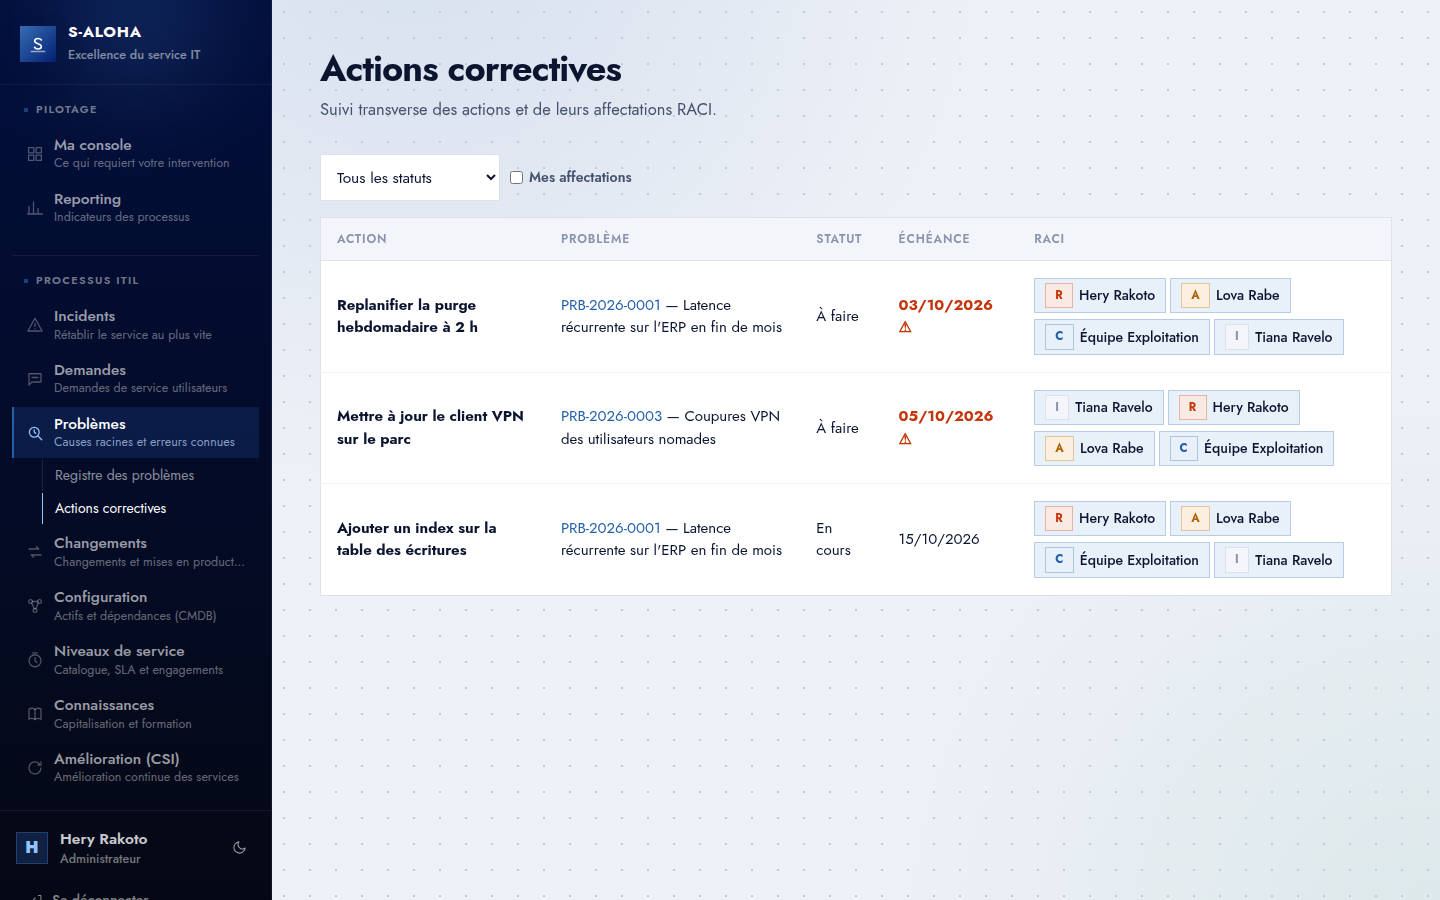
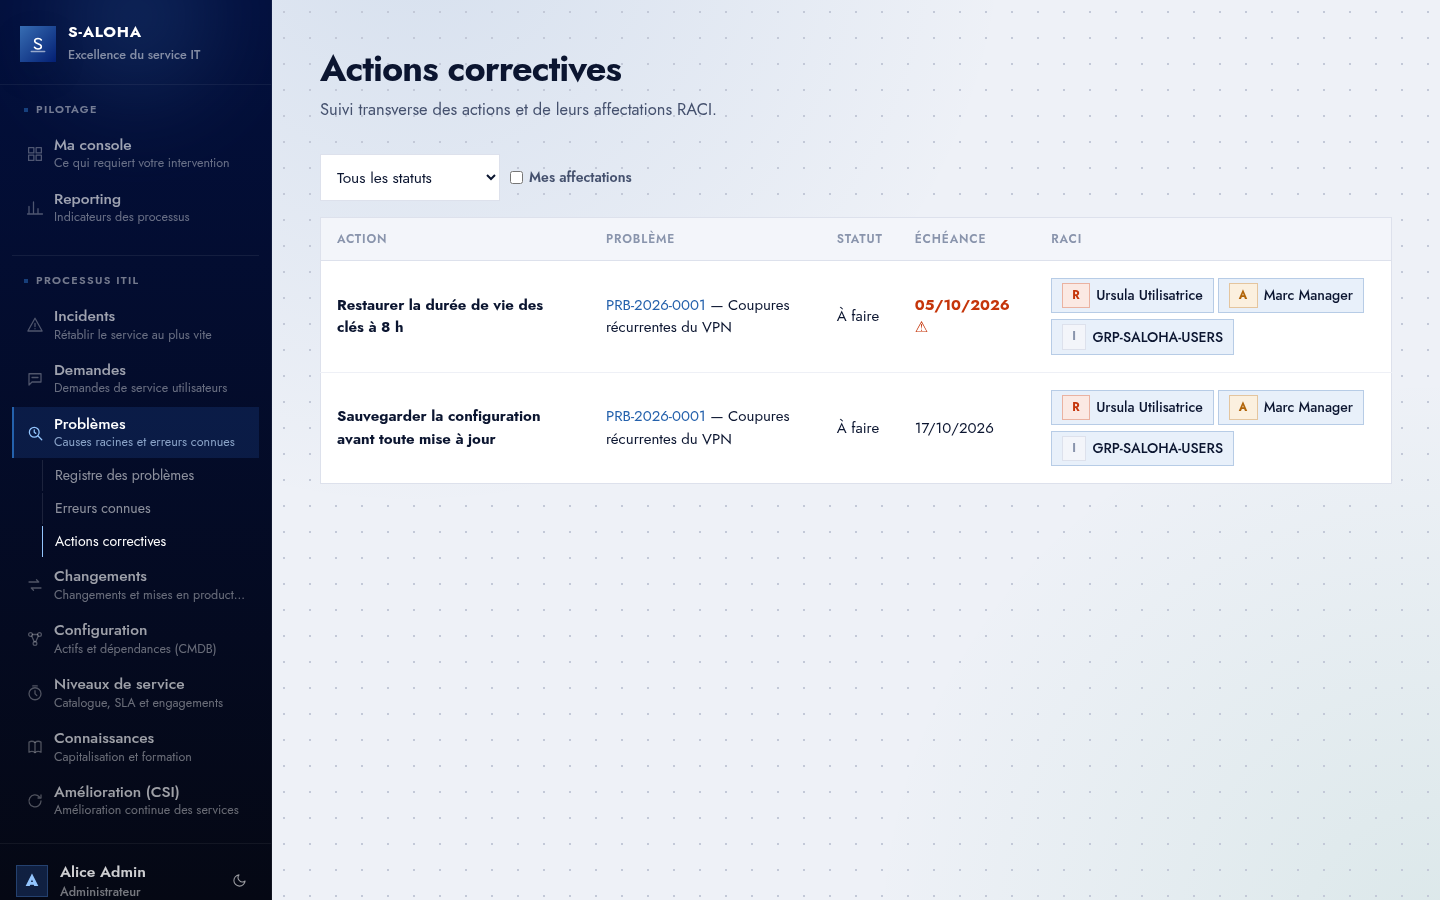
Mode démonstration enrichi et captures d'écran régénérées (#44)
* Mode démonstration enrichi et captures d'écran régénérées

Données d'exemple étoffées (services, SLA, CI, incidents dans tous les statuts,
problèmes en analyse et clos, changements réussi et à autoriser, articles,
améliorations) ; les 16 captures régénérées depuis le mode démonstration, avec
la navigation et les onglets actuels (#26).

* Journal et plan : captures régénérées, Q6 soldé

---------

diff --git a/demo/donnees/charger.py b/demo/donnees/charger.py
@@ -201,7 +201,121 @@ def main():
         'benefit': 'Respect du SLA Accès distant', 'baseline': '11 h en moyenne', 'target': '6 h',
         'outcome': None, 'dueDate': jour(45)}, 'Validée')
 
+    complements(m, u, messagerie, erp, mail, bdd, parefeu)
     print('✔ Données de démonstration chargées.')
+
+
+def complements(m, u, messagerie, erp, mail, bdd, parefeu):
+    """Second jeu : de quoi remplir registres, reporting et captures d'écran."""
+    # --- Services et SLA ---------------------------------------------------------
+    impression = creer(m, '/api/services', {**MARC, 'title': 'Impression',
+        'description': 'Impression et numérisation sur les sites.',
+        'criticality': 'Faible', 'serviceHours': 'Jours ouvrés, 8 h – 17 h'}, 'En service')
+    creer(m, '/api/services', {**MARC, 'title': 'Téléphonie IP',
+        'description': 'Postes téléphoniques et standard.', 'criticality': 'Moyenne',
+        'serviceHours': '24 h/24, 7 j/7'}, 'En conception')
+    sla = {**MARC, 'resolutionHoursP1': 4, 'resolutionHoursP2': 8, 'resolutionHoursP3': 24,
+           'resolutionHoursP4': 72, 'validFrom': jour(-180), 'validTo': jour(185)}
+    creer(m, '/api/agreements', {**sla, 'title': 'SLA Messagerie — toutes directions',
+        'description': 'Disponibilité et résolution de la messagerie.', 'serviceId': messagerie['id'],
+        'customer': 'Toutes directions', 'availabilityTarget': 99.5, 'reviewDate': jour(120)}, 'En vigueur')
+    creer(m, '/api/agreements', {**sla, 'title': 'SLA ERP — Direction financière',
+        'description': 'Engagement renforcé pendant les clôtures.', 'serviceId': erp['id'],
+        'customer': 'Direction financière', 'availabilityTarget': 99.8, 'reviewDate': jour(60)}, 'En vigueur')
+    creer(m, '/api/agreements', {**sla, 'title': 'SLA Impression — sites régionaux',
+        'description': 'En cours de négociation.', 'serviceId': impression['id'],
+        'customer': 'Sites régionaux', 'availabilityTarget': 98, 'reviewDate': None})
+
+    # --- Configuration -----------------------------------------------------------
+    def ci(titre, type_, lieu, desc, statut=None):
+        corps = {**MARC, 'title': titre, 'description': desc, 'ciType': type_,
+                 'environment': 'Production', 'location': lieu}
+        if statut:
+            corps['status'] = statut
+        return appel('POST', '/api/configuration-items', m, corps)
+    exchange = ci('APP-EXCHANGE', 'Application', 'Salle serveurs — siège', 'Messagerie Exchange.')
+    san = ci('SAN-01', 'Stockage', 'Salle serveurs — siège', 'Baie de stockage partagée.')
+    app_erp = ci('APP-ERP', 'Application', 'Salle serveurs — siège', 'Application ERP.')
+    imp = ci('IMP-TOAMASINA-01', 'Autre', 'Agence de Toamasina', 'Imprimante multifonction.', 'Hors service')
+    ci('SW-MAHAJANGA-01', 'Réseau', 'Agence de Mahajanga', 'Commutateur d’agence.')
+    for source, cible, type_ in [(exchange, mail, 'Dépend de'), (mail, san, 'Dépend de'),
+                                 (app_erp, bdd, 'Dépend de'), (bdd, san, 'Dépend de'),
+                                 (imp, parefeu, 'Se connecte à')]:
+        appel('POST', f'/api/configuration-items/{source["id"]}/relations', m,
+              {'targetReference': cible['reference'], 'type': type_})
+    lier(m, 'ci', exchange['id'], messagerie['reference'])
+    lier(m, 'ci', app_erp['id'], erp['reference'])
+    lier(m, 'ci', imp['id'], impression['reference'])
+
+    # --- Incidents ---------------------------------------------------------------
+    def incident(titre, desc, impact, urgence, cat, service, statut=None, resolution=None):
+        return creer(u, '/api/incidents', {**URSULA, 'title': titre, 'description': desc,
+            'impact': impact, 'urgency': urgence, 'category': cat, 'affectedService': service,
+            'isMajor': False, 'resolution': resolution}, statut)
+    incident('ERP inaccessible pendant la clôture mensuelle', 'Erreur de connexion à la base.',
+             'Élevé', 'Élevée', 'Application', 'ERP Finances', 'Résolu',
+             'Redémarrage du service de base de données ; surveillance renforcée.')
+    incident('Imprimante de Toamasina hors ligne', 'Plus aucune impression depuis ce matin.',
+             'Faible', 'Moyenne', 'Matériel', 'Impression', 'En attente')
+    incident('Boîte aux lettres pleine', 'Réception bloquée pour un utilisateur.',
+             'Faible', 'Faible', 'Messagerie', 'Messagerie', 'Clos', 'Archivage et quota relevé.')
+    incident('Lenteurs ERP en fin de journée', 'Temps de réponse supérieurs à 10 s.',
+             'Moyen', 'Moyenne', 'Application', 'ERP Finances')
+
+    # --- Problèmes ---------------------------------------------------------------
+    def probleme(titre, desc, impact, urgence, cat, service):
+        return appel('POST', '/api/problems', u, {'title': titre, 'description': desc,
+            'impact': impact, 'urgency': urgence, 'category': cat, 'affectedService': service,
+            'status': None, 'knownErrorWorkaround': None, 'rootCause': None})
+    p_erp = probleme('Lenteurs récurrentes de l’ERP en fin de journée',
+        'Temps de réponse dégradés chaque soir depuis trois semaines.', 'Moyen', 'Moyenne',
+        'Application', 'ERP Finances')
+    appel('POST', f'/api/problems/{p_erp["id"]}/analyses', u, {'method': 'ISHIKAWA',
+        'dataJson': json.dumps({'categories': {
+            'Méthode': ['Traitements par lots lancés à 17 h'], 'Matériel': ['Baie SAN saturée en écriture'],
+            'Main-d’œuvre': [], 'Milieu': ['Pic de saisie avant la clôture'],
+            'Matière': ['Index manquant sur les écritures'], 'Mesure': ['Pas de supervision des temps de réponse']},
+            'rootCause': ''}, ensure_ascii=False), 'conclusion': None})
+    p_mail = probleme('Boîtes aux lettres saturées', 'Quotas atteints sans alerte préalable.',
+        'Faible', 'Moyenne', 'Messagerie', 'Messagerie')
+    appel('PUT', f'/api/problems/{p_mail["id"]}', m, {'title': p_mail['title'],
+        'description': p_mail['description'], 'status': 'Clos', 'impact': 'Faible', 'urgency': 'Moyenne',
+        'category': 'Messagerie', 'affectedService': 'Messagerie', 'knownErrorWorkaround': None,
+        'rootCause': 'Aucune alerte de quota configurée sur le serveur de messagerie.'})
+
+    # --- Changements -------------------------------------------------------------
+    chg = {**MARC, 'title': 'Mise à jour du serveur de messagerie', 'description': 'Correctifs de sécurité mensuels.',
+        'changeType': 'Normal', 'risk': 'Moyen', 'plannedStart': jour(-12), 'plannedEnd': jour(-12),
+        'implementationPlan': 'Appliquer les correctifs, redémarrer, vérifier les flux.',
+        'backoutPlan': 'Désinstaller les correctifs.', 'outcome': None}
+    c = creer(m, '/api/changes', chg, 'Autorisé')
+    for statut in ['Planifié', 'Mis en œuvre']:
+        appel('PUT', f'/api/changes/{c["id"]}', m, {**chg, 'status': statut})
+    appel('PUT', f'/api/changes/{c["id"]}', m, {**chg, 'status': 'Clos', 'outcome': 'Réussi'})
+    lier(m, 'change', c['id'], mail['reference'])
+    ajout = creer(u, '/api/changes', {**URSULA, 'title': 'Ajout d’un index sur les écritures comptables',
+        'description': 'Correctif des lenteurs de l’ERP.', 'changeType': 'Normal', 'risk': 'Faible',
+        'plannedStart': jour(7), 'plannedEnd': jour(7), 'implementationPlan': 'Créer l’index hors production, puis en production.',
+        'backoutPlan': 'Supprimer l’index.', 'outcome': None}, 'Évalué')
+    lier(u, 'change', ajout['id'], p_erp['reference'])
+    lier(u, 'change', ajout['id'], bdd['reference'])
+
+    # --- Demandes, connaissances, amélioration -----------------------------------
+    creer(u, '/api/requests', {**URSULA, 'title': 'Accès à l’ERP pour le contrôle de gestion',
+        'description': 'Profil lecture seule.', 'requestedItem': 'Habilitation ERP',
+        'requestedFor': 'demo.user', 'requestedForDisplayName': 'Ursula Utilisatrice', 'dueDate': jour(3)})
+    for titre, type_, contenu in [
+        ('Configurer la messagerie sur un téléphone', 'Procédure', 'Paramètres du compte, serveur et authentification.'),
+        ('Que faire si l’ERP est lent ?', 'FAQ', 'Vérifier l’heure : les traitements par lots tournent à 17 h.'),
+        ('Libérer de l’espace dans sa boîte aux lettres', 'Solution', 'Archiver les messages de plus d’un an.')]:
+        creer(m, '/api/knowledge', {**MARC, 'title': titre, 'description': '', 'articleType': type_,
+            'content': contenu, 'keywords': '', 'reviewDate': jour(200)}, 'Publié')
+    for titre, etape, priorite, statut in [
+        ('Superviser les temps de réponse des applications', 4, 'Élevée', 'Validée'),
+        ('Former les agences à la résolution de premier niveau', 1, 'Moyenne', None)]:
+        creer(m, '/api/improvements', {**MARC, 'title': titre, 'description': '', 'step': etape,
+            'priority': priorite, 'benefit': 'Moins d’incidents escaladés', 'baseline': 'À mesurer',
+            'target': 'À définir', 'outcome': None, 'dueDate': jour(60)}, statut)
 
 
 if __name__ == '__main__':

diff --git a/docs/reference/exploitation.md b/docs/reference/exploitation.md
@@ -44,11 +44,14 @@ de service `svc-saloha` et un compte par rôle :
 - Premier démarrage : environ une minute, le temps de provisionner le domaine ; l'API
   attend que l'annuaire soit prêt.
 - **Données d'exemple** : le service ponctuel `donnees` charge, par l'API, un jeu fictif
-  et relié (`demo/donnees/charger.py`) : trois services et un SLA, quatre CI et leurs
-  relations, trois incidents dont un majeur, deux problèmes dont une erreur connue avec
-  son analyse 5 Pourquoi et ses actions RACI (une en retard), un changement planifié, deux
-  demandes, un article publié, une amélioration validée. Il ne fait rien si des problèmes
-  existent déjà.
+  et relié (`demo/donnees/charger.py`) : cinq services et quatre SLA (dont un en
+  brouillon), neuf CI et leurs relations, sept incidents dans tous les statuts dont un
+  majeur, quatre problèmes (erreur connue avec analyse 5 Pourquoi et actions RACI dont une
+  en retard, analyse Ishikawa en cours, problème clos), quatre changements (réussi,
+  planifié, évalué, standard), trois demandes, quatre articles publiés, trois
+  améliorations. Il ne fait rien si des problèmes existent déjà. Toutes les dates de
+  création sont celles du chargement : les MTTR du reporting valent donc 0 sur une pile
+  neuve.
 - L'annuaire est conservé dans le volume `annuaire` ; `docker compose … down -v` repart
   d'un domaine neuf.
 - Le conteneur de l'annuaire est **privilégié**, les mots de passe sont **publics** et le

diff --git a/docs/archives/journal-2026-10-07.md b/docs/archives/journal-2026-10-07.md
@@ -51,5 +51,19 @@
   demande du décideur.
 - **Documentation** : frontend (modules décrits par configuration, registre des modules,
   navigation cible).
-- **Restant** : captures d'écran 03 à 06 à régénérer (#26).
-- **Commit** : PR #42 (code) et PR de documentation associée.
+- **Commit** : `3fe9ed0` (PR #42, code) et `c69a12c` (PR #43, documentation).
+
+## Mode démonstration enrichi, captures d'écran régénérées
+
+- **Quoi** : jeu de données de démonstration étoffé (cinq services, quatre SLA, neuf CI,
+  sept incidents dans tous les statuts, quatre problèmes, quatre changements, articles,
+  améliorations) ; les 16 captures de `docs/screenshots/` régénérées depuis le mode
+  démonstration construit sur les sources (navigation et onglets actuels), en 1440×900,
+  thème clair, par un script Puppeteer en conteneur.
+- **Pourquoi** : la navigation et les onglets ont changé (PR #42) ; un essai du mode
+  démonstration doit montrer une plateforme vivante. Issue #26.
+- **Limite connue** : les dates de création sont celles du chargement, les MTTR du
+  reporting valent 0 sur une pile neuve.
+- **Documentation** : exploitation § Mode démonstration.
+- **Soldé du plan d'action** : Q6.
+- **Commit** : non commité.

diff --git a/docs/plan-action.md b/docs/plan-action.md
@@ -69,7 +69,6 @@ Détail : [sécurité § Points de durcissement](reference/securite.md#points-de
 | Q2 | **CI** : build backend et frontend, `python3 scripts/check-docs.py` | code |
 | Q3 | Retirer `puppeteer-core` des dépendances du frontend (inutilisé, alourdit l'image) | décision |
 | Q4 | Créer les issues GitHub des sections 1 à 7 et les lier ici | action |
-| Q6 | Captures d'écran : régénérer celles qui montrent la barre latérale (lettre de pilier retirée le 2026-10-06) | code |
 
 ## 7. Feuille de route fonctionnelle
 
